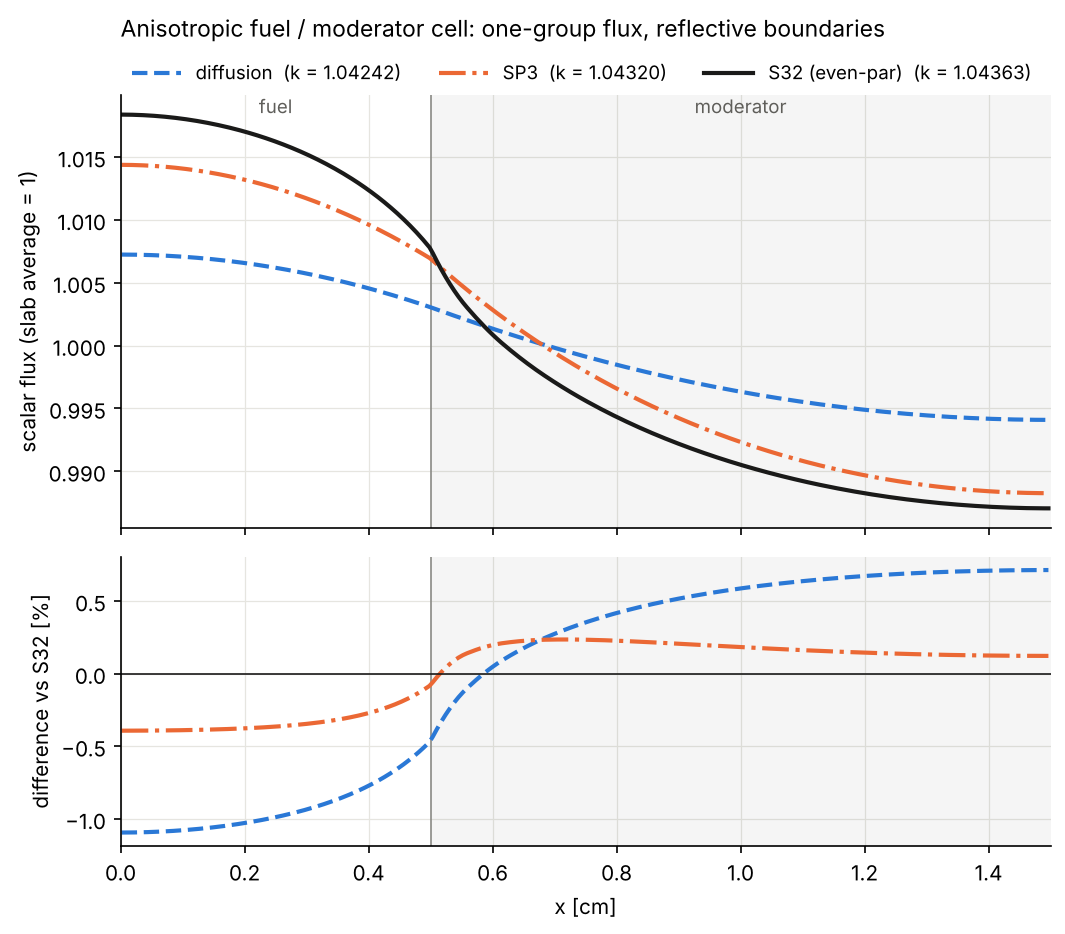
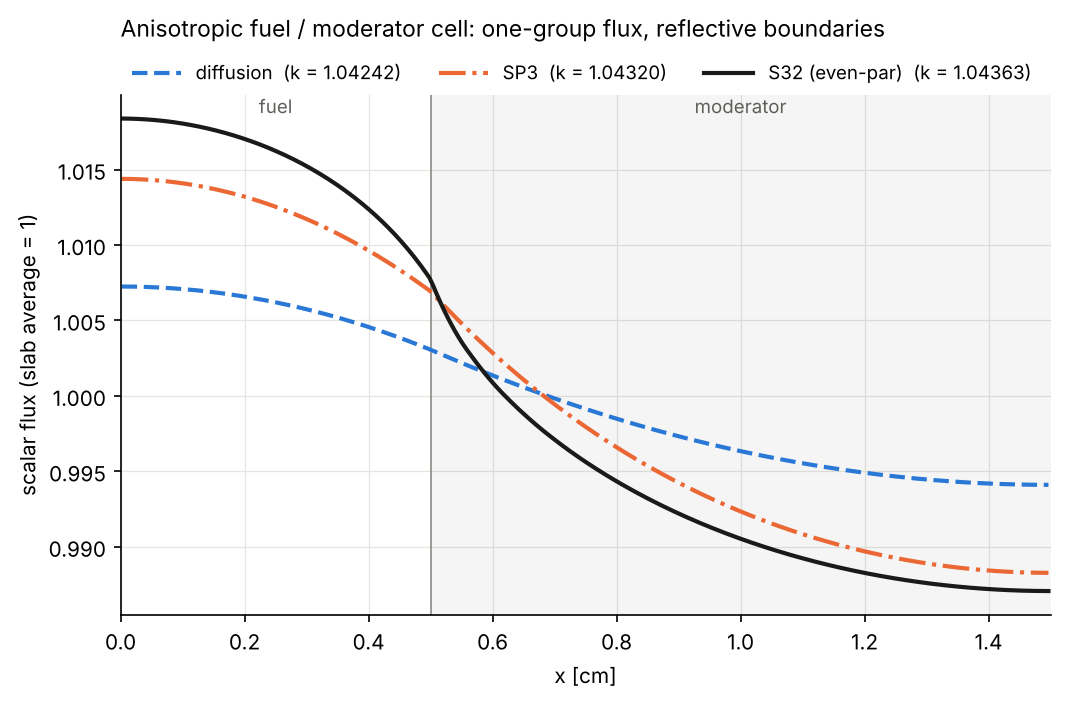
Plot: remove the relative-difference panel
The figure now shows only the scalar flux of diffusion, SP3 and the S_N
reference. The numeric differences remain in the printed comparison table.

Claude-Session: https://claude.ai/code/session_01KxptPvnRLeReVHZnjWER3E

diff --git a/src/slab1g/cli.py b/src/slab1g/cli.py
@@ -53,39 +53,32 @@ def plot(problem: SlabProblem, results: list[Result], path: Path):
 
     ref = results[-1]
     show = [r for r in results if r.method in ("diffusion", "SP3")] + [ref]
-    fig, (ax1, ax2) = plt.subplots(2, 1, figsize=(8, 6.5), sharex=True,
-                                   gridspec_kw=dict(height_ratios=[3, 2], hspace=0.08))
-    for ax in (ax1, ax2):
-        for i, (a, b) in enumerate(zip(problem.interfaces[:-1], problem.interfaces[1:])):
-            if i % 2:
-                ax.axvspan(a, b, color="#000000", alpha=0.04, lw=0)
-        for xi in problem.interfaces[1:-1]:
-            ax.axvline(xi, color="#8a8a85", lw=0.8)
-        ax.grid(True, color="#e6e5e0", lw=0.6)
-        ax.set_axisbelow(True)
-        for s in ("top", "right"):
-            ax.spines[s].set_visible(False)
+    fig, ax = plt.subplots(figsize=(8, 4.5))
+    for i, (a, b) in enumerate(zip(problem.interfaces[:-1], problem.interfaces[1:])):
+        if i % 2:
+            ax.axvspan(a, b, color="#000000", alpha=0.04, lw=0)
+    for xi in problem.interfaces[1:-1]:
+        ax.axvline(xi, color="#8a8a85", lw=0.8)
+    ax.grid(True, color="#e6e5e0", lw=0.6)
+    ax.set_axisbelow(True)
+    for s in ("top", "right"):
+        ax.spines[s].set_visible(False)
 
     for r in show:
         st = STYLE["transport" if r is ref else r.method]
-        lbl = f"{r.method}  (k = {r.k:.5f})"
-        ax1.plot(r.x, r.phi, label=lbl, **st)
-        if r is not ref:
-            ax2.plot(r.x, 100 * (r.phi - ref.phi) / ref.phi, label=r.method, **st)
-    ax2.axhline(0, color="#1a1a19", lw=0.8)
+        ax.plot(r.x, r.phi, label=f"{r.method}  (k = {r.k:.5f})", **st)
 
-    ymax = ax1.get_ylim()[1]
+    ymax = ax.get_ylim()[1]
     for z, a, b in zip(problem.zones, problem.interfaces[:-1], problem.interfaces[1:]):
-        ax1.text(0.5 * (a + b), ymax, z.name, ha="center", va="top", color="#5f5e5a", fontsize=9)
+        ax.text(0.5 * (a + b), ymax, z.name, ha="center", va="top", color="#5f5e5a", fontsize=9)
 
-    ax1.set_ylabel("scalar flux (slab average = 1)")
-    ax1.set_title(f"{problem.title}: one-group flux, reflective boundaries", loc="left",
-                  fontsize=11, pad=28)
-    ax1.legend(frameon=False, fontsize=9, loc="lower left", bbox_to_anchor=(0, 1.0),
-               ncol=3, borderaxespad=0.2, handlelength=2.6)
-    ax2.set_ylabel(f"difference vs {ref.method.split()[0]} [%]")
-    ax2.set_xlabel("x [cm]")
-    ax2.set_xlim(0, problem.length)
+    ax.set_ylabel("scalar flux (slab average = 1)")
+    ax.set_title(f"{problem.title}: one-group flux, reflective boundaries", loc="left",
+                 fontsize=11, pad=28)
+    ax.legend(frameon=False, fontsize=9, loc="lower left", bbox_to_anchor=(0, 1.0),
+              ncol=3, borderaxespad=0.2, handlelength=2.6)
+    ax.set_xlabel("x [cm]")
+    ax.set_xlim(0, problem.length)
     fig.savefig(path, dpi=150, bbox_inches="tight")
     plt.close(fig)
 
